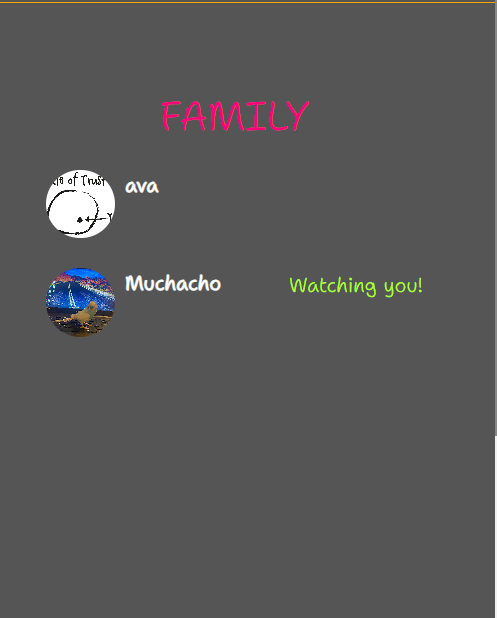
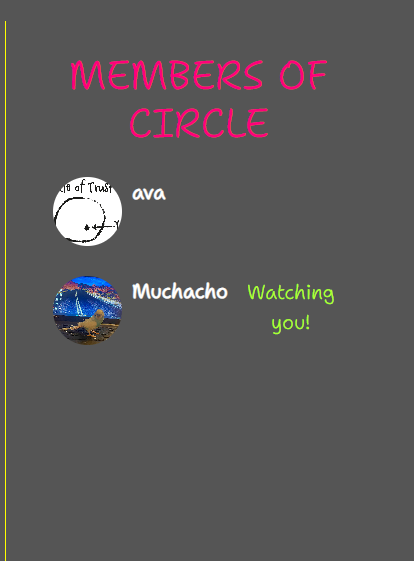
Add testing info and update readme.

diff --git a/src/pages/profiles/FamilyProfiles.js b/src/pages/profiles/FamilyProfiles.js
@@ -13,7 +13,7 @@ const FamilyProfiles = () => {
             {popularProfiles.results.length ? (
                 <>
                     <br />
-                    <h2>Family</h2>
+                    <h2>Members of Circle</h2>
                     {popularProfiles.results.map((profile) => (
                             <Profile key={profile.id} profile={profile} />
 

diff --git a/src/App.js b/src/App.js
@@ -57,7 +57,7 @@ function App() {
         </Col>
 
         {/*main content*/}
-        <Col sm={12} md={8} lg={6} className={styles.Middle}>
+        <Col sm={12} md={8} lg={4} className={styles.Middle}>
           <Switch>
             <Route
               exact

diff --git a/src/App.module.css b/src/App.module.css
@@ -181,3 +181,9 @@ figure {
   }
 }
 
+@media screen and (max-width:500px) {
+  .LeftSide {
+    display: none;
+  }
+}
+

diff --git a/src/styles/CreateMemoForm.module.css b/src/styles/CreateMemoForm.module.css
@@ -1,4 +1,5 @@
 .Container {
     min-height: 343px;
     margin-bottom: 30px;
+    color: #7EFFFF;
   }

diff --git a/src/styles/TodoCreateEditForm.module.css b/src/styles/TodoCreateEditForm.module.css
@@ -1,3 +1,4 @@
 .Container {
     min-height: 343px;
+    color: #7EFFFF;
   }

diff --git a/README.md b/README.md
@@ -42,6 +42,7 @@ A gray background was chosen for the site's main theme to provide a clean, strai
 
 The main colour palettes used for light and dark modes are:
 - The main background-color: #555
+- The heading font color: #7EFFFF
 - The color of profile font: #FFFFFF
 - The menu icons color: rgb(255, 0, 119)
 - The menu font color: orange
@@ -55,7 +56,6 @@ is Shantell Sans, that is messy and looks like real handwriting.
 For future features I'd like to add the ability for circle members to chat to each other and implement the feature of tagging each other in memos or tasks.
 
 ## Features
-
 ### Logo and Heading
 The name and logo of the app is added on the top of the webapp
 
@@ -207,6 +207,9 @@ Issues corrected include: unnecessary semi-colons at the end of statements, unes
 - Lighthouse testing
 
 - Manual testing
+
+All links, forms and menu work properly.
+
 CRUD Testing
 Table was made to check a user could Create, Read, Update and/or Delete items.
 
@@ -215,7 +218,6 @@ LO meaning the user was not logged in and so could only read.
 LI/O meaning the user was logged in and the owner so had full CRUD functionality.
 
 <img src="./readme_assets/front-crud-test.png">
-
 
 ## Components
 
